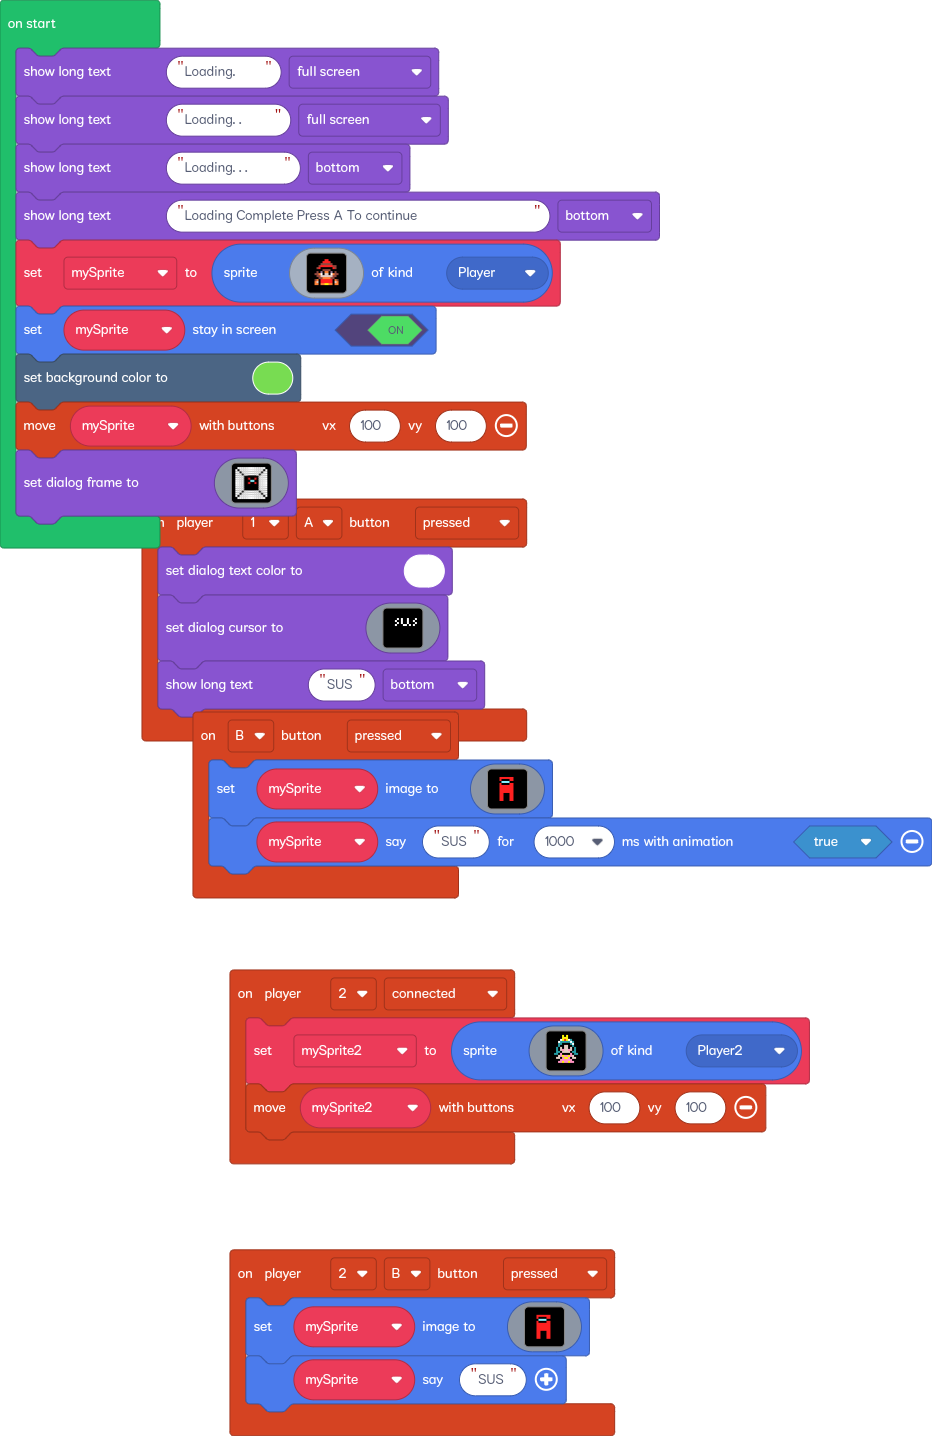
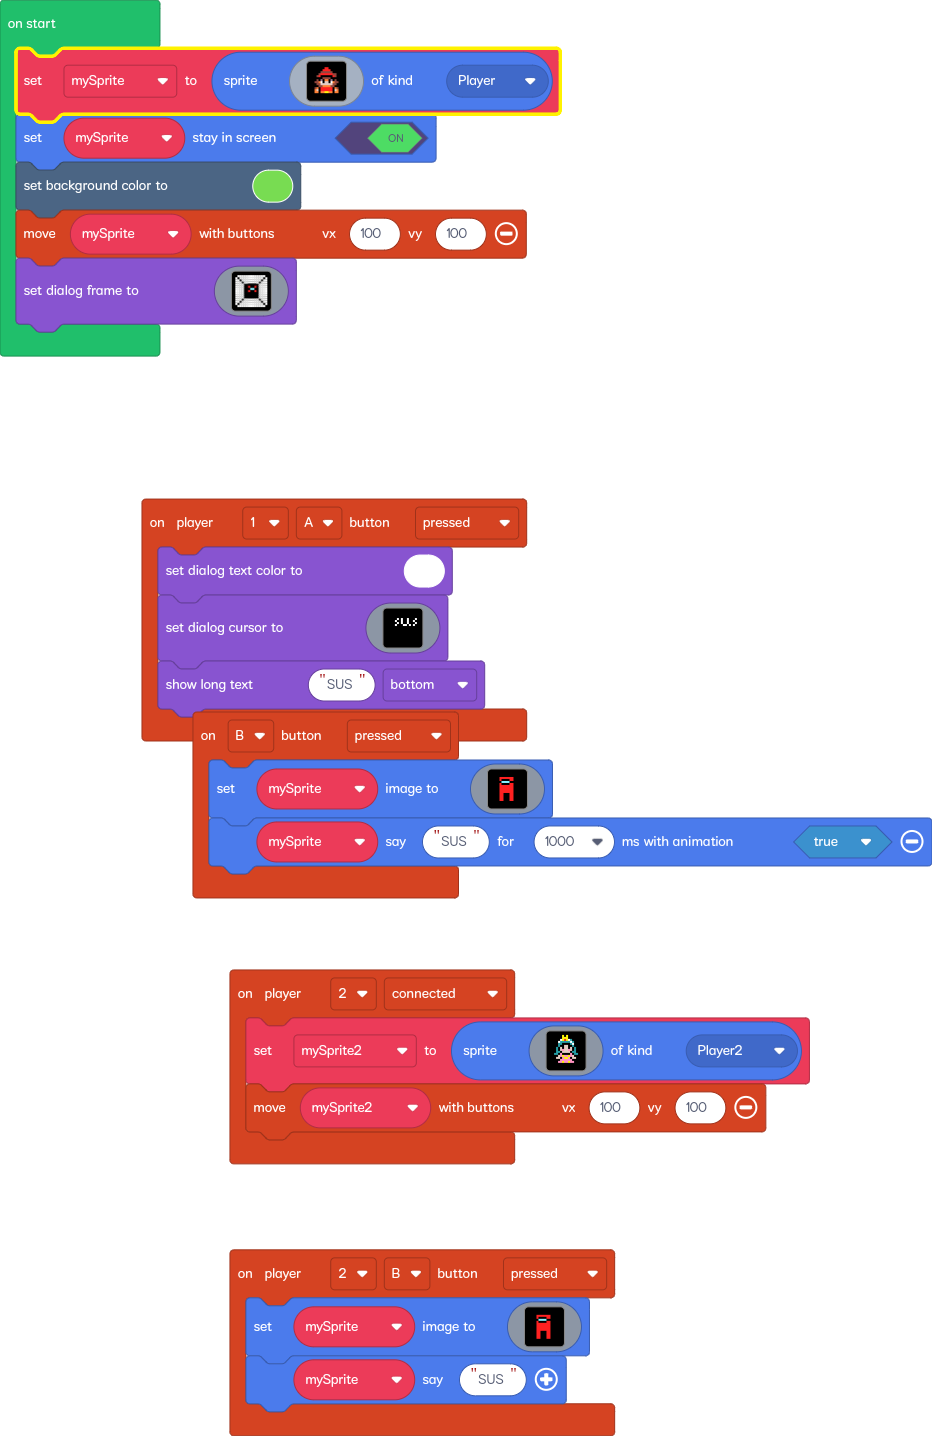
Removed Loading Screen

Changed region(s): [[0.0, 0.0306, 0.7157, 0.3983]]

diff --git a/main.ts b/main.ts
@@ -88,10 +88,6 @@ controller.player2.onEvent(ControllerEvent.Connected, function () {
 })
 let mySprite2: Sprite = null
 let mySprite: Sprite = null
-game.showLongText("Loading.", DialogLayout.Full)
-game.showLongText("Loading..", DialogLayout.Full)
-game.showLongText("Loading...", DialogLayout.Bottom)
-game.showLongText("Loading Complete Press A To continue", DialogLayout.Bottom)
 mySprite = sprites.create(img`
     . . . . . . f f f f . . . . . . 
     . . . . f f f 2 2 f f f . . . . 
